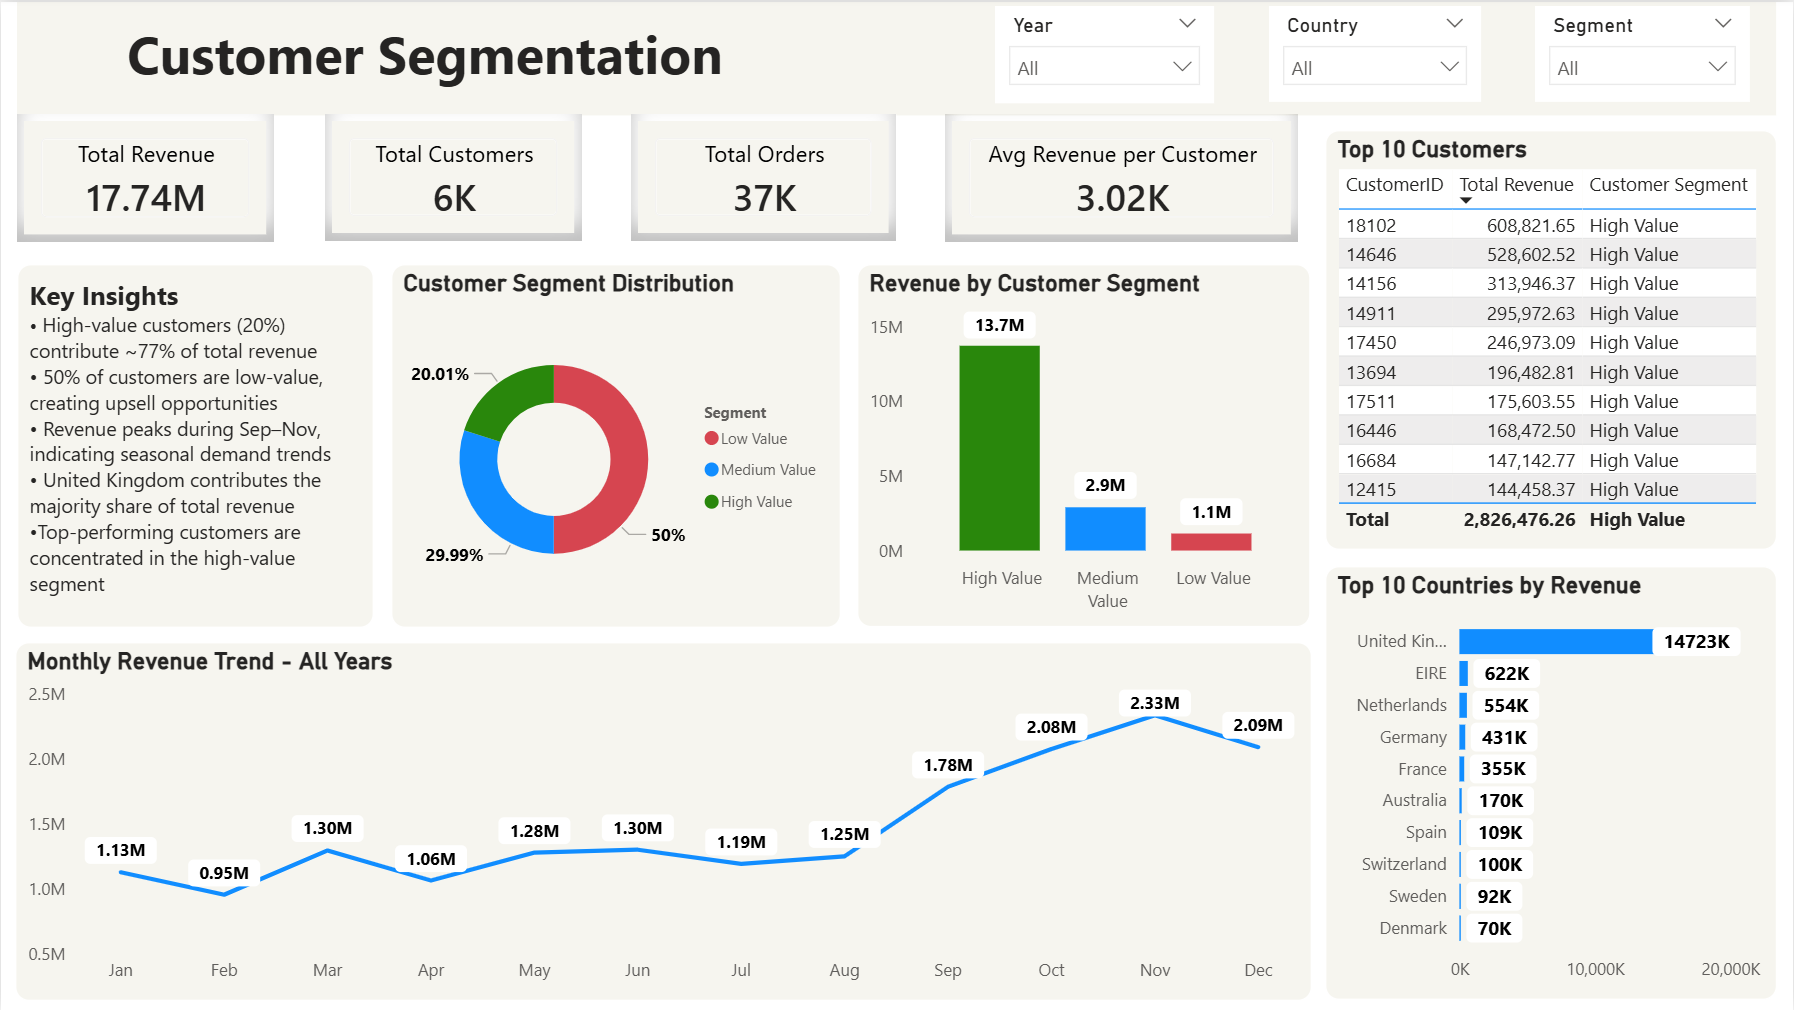
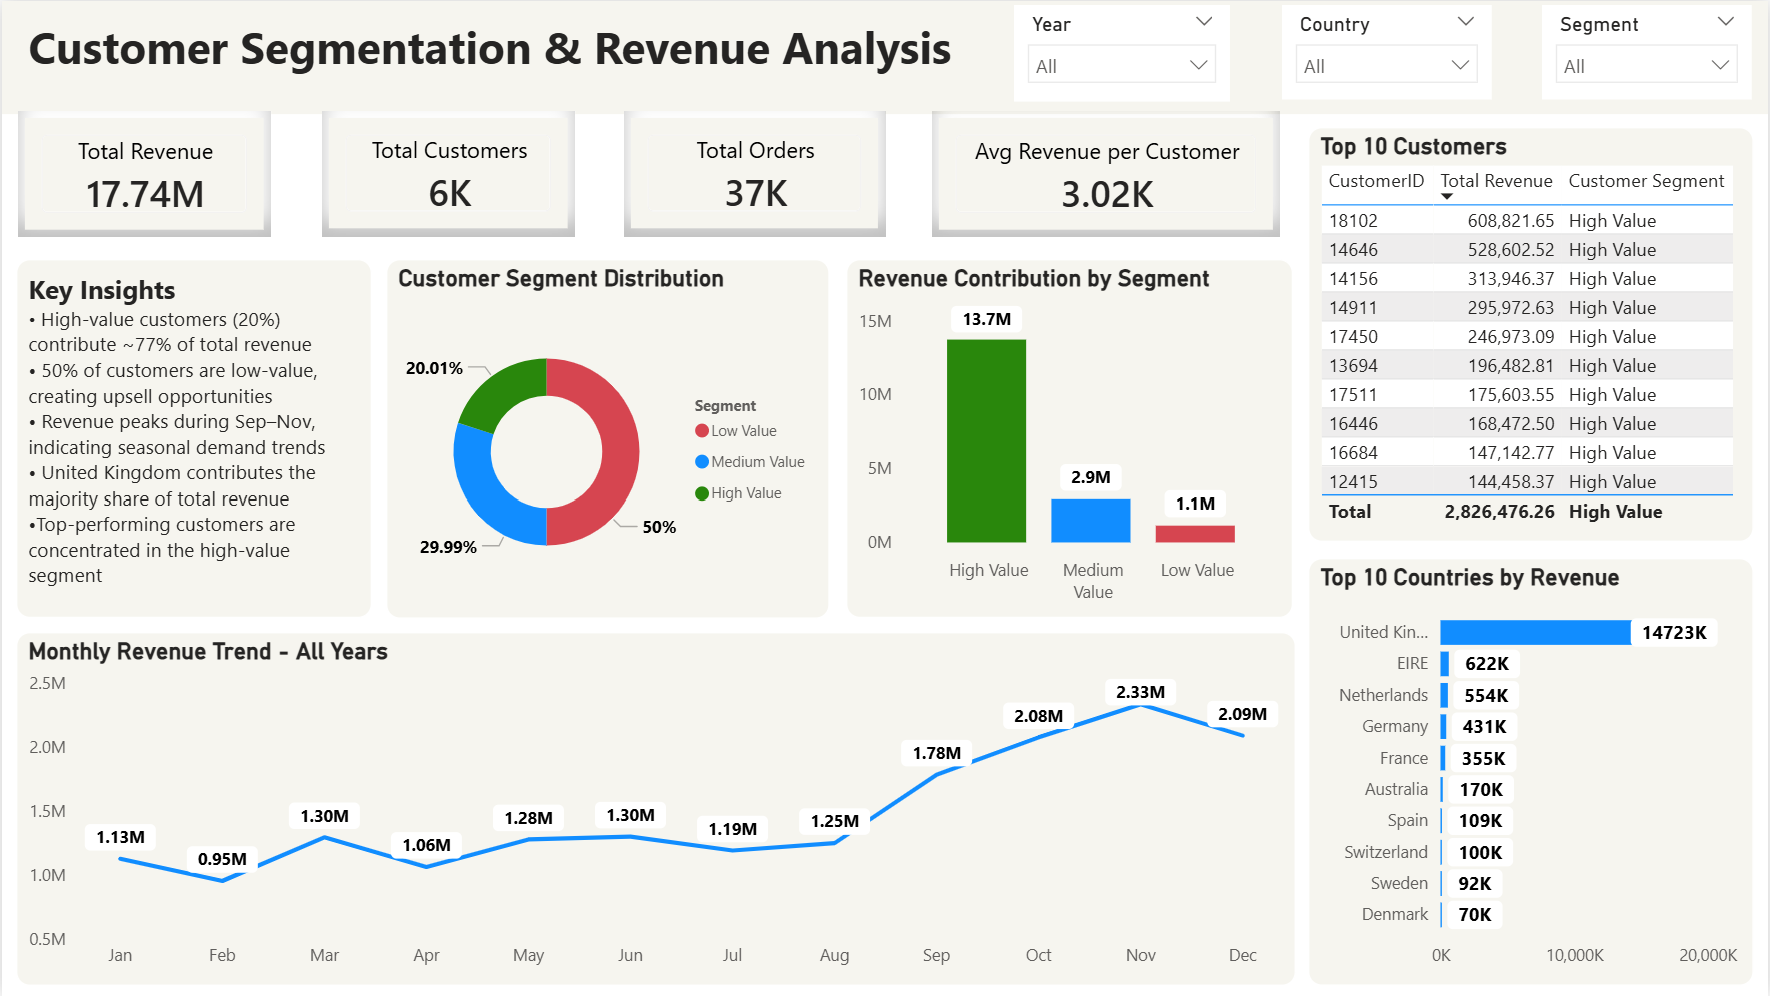
Add files via upload

diff --git a/README.md b/README.md
@@ -1,40 +1,30 @@
-# Customer Segmentation Analysis | Excel + SQL + Power BI
+# Customer Segmentation & Revenue Analysis | Excel + SQL + Power BI
 
-## Overview
-
-This project analyzes customer purchasing behavior, revenue contribution and customer segments using the Online Retail Dataset.
-
-The workflow combines Excel, SQL and Power BI to perform data consolidation, cleaning, transformation, data modeling, customer segmentation and interactive dashboard visualization.
-
-Customers were segmented into **High Value, Medium Value and Low Value** groups based on revenue contribution using percentile-based segmentation logic (P50 and P80 thresholds).
-
-The dashboard provides insights into:
-- High-value customers driving revenue
-- Revenue contribution by customer segments
-- Monthly revenue trends and seasonality
-- Top customers and countries by revenue
+Analyze customer segments and revenue contribution to identify high-value customers, monitor revenue trends, and support business decision-making using Excel, SQL, and Power BI.
 
 ---
 
-## Objective
+## Overview
 
-- Segment customers based on revenue contribution
-- Identify high-value customers driving the majority of business revenue
-- Analyze customer distribution across different value segments
-- Monitor monthly revenue trends and seasonal patterns
-- Discover top-performing countries and customers
+This project analyzes customer purchasing behavior, customer segments, and revenue performance using the Online Retail Dataset.
+
+An end-to-end analytics workflow was built using Excel for data preparation, SQL for data cleaning and transformation, and Power BI for dashboard development and visualization.
+
+Customers were segmented into High Value, Medium Value, and Low Value groups based on revenue contribution using percentile-based segmentation logic (P50 and P80 thresholds).
 
 ---
 
 ## Business Problem
 
 Businesses often struggle to identify:
-- Customers generating the highest revenue
+
+- Customers driving the highest revenue
 - Customer segments requiring retention or upselling strategies
+- Revenue concentration across customer segments
 - Countries contributing the most to overall sales
 - Seasonal revenue trends affecting business performance
 
-This project addresses these challenges through customer segmentation and revenue analysis using interactive Power BI visualizations.
+This project addresses these challenges through customer segmentation and revenue analysis using interactive Power BI visualizations
 
 ---
 
@@ -122,7 +112,7 @@ SET Revenue = Quantity * UnitPrice;
 
 - KPI Cards
 - Customer Segment Distribution
-- Revenue by Customer Segment
+- Revenue Contribution by Segment
 - Monthly Revenue Trend
 - Top Customers by Revenue
 - Top Countries by Revenue